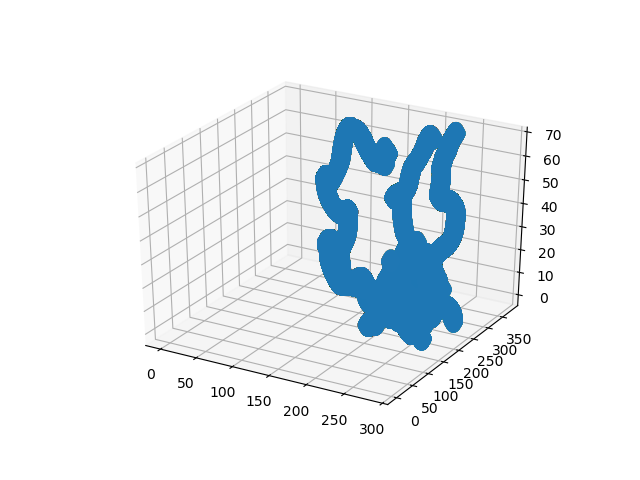
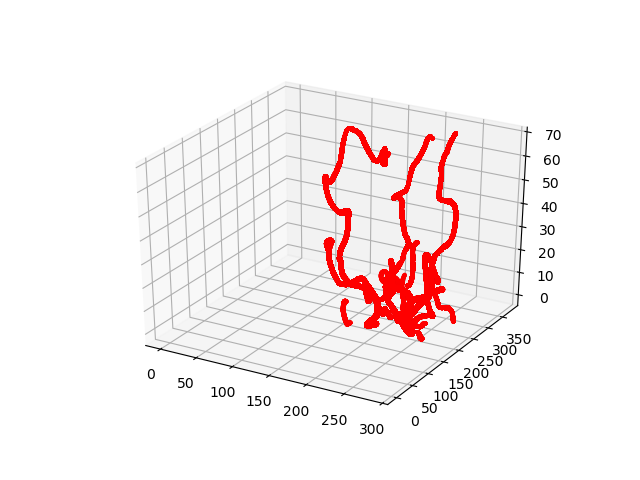
add gif

Changed region(s): [[0.4688, 0.2188, 0.75, 0.75]]

diff --git a/draw.py b/draw.py
@@ -12,18 +12,20 @@ def drawTre(address):
     r=[]
     npoints=0
     lenofx=0
+    radicus=0
     ax = plt.axes(projection='3d')
     for line in alllines:
         line = re.split("[ ]",line)
         if(line[0]=="NPoints"):
             npoints=int(line[2])+1
-            #ax.scatter(x,y,z,linewidths=10,marker='d') 
-            #plt.savefig("examples.png")
+            #ax.scatter(x,y,z,c='r',linewidths=r,marker='.') 
+            plt.plot(x,y,z,linewidth=radicus*2)
+            #plt.savefig("./vesselImg/examples"+str(lenofx)+".png")
             lenofx=lenofx+1
             print(lenofx)
-            # x=[]
-            # y=[]
-            # z=[]
+            x=[]
+            y=[]
+            z=[]
             # r=[]
         elif(npoints!=0):
             npoints=npoints-1
@@ -32,10 +34,12 @@ def drawTre(address):
                 y.append(float(line[1]))
                 z.append(float(line[2]))
                 r.append(float(line[3]))
+                radicus=float(line[3])
     cValue = ['r','y','g','b','r','y','g','b','r'] 
-    ax.scatter(x,y,z,c='r',linewidths=r,marker='.') 
+    #ax.scatter(x,y,z,c='r',linewidths=r,marker='.') 
     #plt.plot(x,y,z,markersize=r)
     print(max(r))
+    print(min(r))
     print(len(r))   
     plt.show()
     #plt.savefig("examples.png")

diff --git a/imgIO.py b/imgIO.py
@@ -1,0 +1,34 @@
+import imageio
+import os
+import sys
+
+def create_gif(source, name, duration):
+	"""
+     生成gif的函数，原始图片仅支持png
+     source: 为png图片列表（排好序）
+     name ：生成的文件名称
+     duration: 每张图片之间的时间间隔
+	"""
+	frames = []     # 读入缓冲区
+	for img in source:
+		frames.append(imageio.imread(img))
+	imageio.mimsave(name, frames, 'GIF', duration=duration)
+	print("处理完成")
+
+def main(or_path):
+	"""
+	or_path: 目标的文件夹
+	"""
+	path = os.chdir(or_path)
+	pic_list = os.listdir()
+	gif_name = "result.gif"  # 生成gif文件的名称
+	duration_time = 0.1
+	# 生成gif
+	create_gif(pic_list, gif_name, duration_time)
+
+if __name__ == '__main__':
+	parm_list = sys.argv
+	if len(parm_list) != 2:
+		print("请输入需要处理的文件夹！")
+	else:
+		main(parm_list[1])
